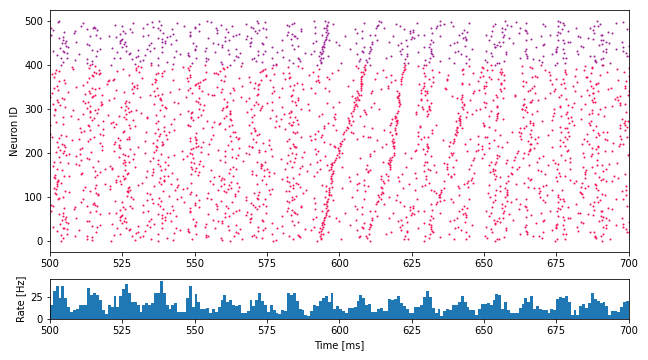
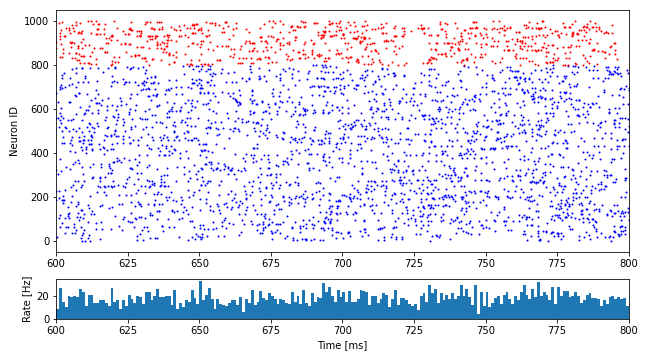
incorporated changes suggested by kris

diff --git a/simulation/new_run.py b/simulation/new_run.py
@@ -31,84 +31,106 @@ nest.print_time = False
 #                   }
 
 params = {
-    'num_neurons': 800,                # number of neurons in network
+    'N':    [800, 200],                 # number of neurons in network
     'rho':  0.2,                        # fraction of inhibitory neurons
-    'eps':  0.2,                        # probability to establish a connections
+    'eps':  0.1,                        # probability to establish a connections
     'g':    5,                          # excitation-inhibition balance
-    'eta':  4.4,                          # relative external rate
+    'eta':  2,                          # relative external rate
     'J':    0.1,                        # postsynaptic amplitude in mV
-    'n_rec_ex':  6000,                   # excitatory neurons to be recorded from
-    'n_rec_in':  2000,                   # inhibitory neurons to be recorded from
+    'n_rec_ex':  800,                   # excitatory neurons to be recorded from
+    'n_rec_in':  200,                   # inhibitory neurons to be recorded from
     'rec_start': 600.,                  # start point for recording spike trains
     'rec_stop':  800.                   # end points for recording spike trains
     }
 
-neuron_params_ex = {
-    #"C_m":     1.0,                     ## capacity of membrane
+neuron_params = {
+    "C_m":     1.0,                     ## capacity of membrane
     "t_ref":   2.0,                     ## duration of refractory period
     "E_L":     0.0,                     ## resting membrane potential
     "V_m":     0.0,                     ## membrane potential
-    "V_th":    30.,                     ## spike threshold
-    "V_reset": 0.0,                     ## Reset potential of membrane
+    "V_th":    20.,                     ## spike threshold
+    "V_reset": 10.,                     ## Reset potential of membrane
     "spike_dependent_threshold": False,
     "after_spike_currents": False,
     "adapting_threshold": False,
-    "tau_syn": [2, 20]
 }
 
-syn_spec_ex_ex={
-    'weight': params['J'],
-    'delay': 1.5, 
-    'receptor_type': 1
-    }
-syn_spec_in_ex={
-    'weight': params['J']*-params['g'],
-    'delay': 1.5, 
-    'receptor_type': 2
-     }
-syn_spec_ex_in={#'synapse_model': 'stdp_synapse',
+syn_spec_ex_ex = {
+    'synapse_model': 'static_synapse',
     'weight': params['J'],
     'delay': 1.5,
     'receptor_type': 1
     }
-syn_spec_in_in={#'synapse_model': 'stdp_synapse',
+syn_spec_in_ex = {
+    'synapse_model': 'static_synapse',
     'weight': params['J']*-params['g'],
-    'delay': 1.5, 
-    'receptor_type': 2
+    'delay': 1.5,
+    'receptor_type': 1
+     }
+syn_spec_ex_in = {
+    'synapse_model': 'static_synapse',
+    'weight': params['J'],
+    'delay': 1.5,
+    'receptor_type': 1
+    }
+syn_spec_in_in = {
+    'synapse_model': 'static_synapse',
+    'weight': params['J']*-params['g'],
+    'delay': 1.5,
+    'receptor_type': 1
     }
 
 
 
-## V_th / (excitatory weight * number of exc. conns * tau_m) * rel. ext rate * 1000 * number of exc. conns
-ext_rate = (neuron_params_ex['V_th']   # the external rate needs to be adapted to provide enough input (Brunel 2000)
-                  / (params['J'] * params['num_neurons'] * params['eps'] * neuron_params_ex['tau_syn'][0]) #neuron_params_ex['tau_syn'])
-                  * params['eta'] * 1000. * params['num_neurons'] * params['eps'])
+## From the old script:
+# ext_rate = (neuron_params['V_th']   # the external rate needs to be adapted to provide enough input (Brunel 2000)
+#             / (params['J'] * params['N'][0] * params['eps'] * neuron_params['tau_syn'][0])
+#             * params['eta'] * 1000. * params['N'][0] * params['eps'])
+ext_rate = 33.5e4
 
 
-nu_th = neuron_params_ex['V_th'] / (params['J'] * params['num_neurons'] * params['eps'] * neuron_params_ex['tau_syn'][0])
-nu_ex = params['eta'] * nu_th
+# nu_th = neuron_params['V_th'] / (params['J'] * params['N'][0] * params['eps'] * neuron_params['tau_syn'][0])
+# nu_ex = params['eta'] * nu_th
+# ratio = nu_ex/nu_th
 
-ratio = nu_ex/nu_th
+network = Network()
+network.addpop('glif_psc', params['N'][0], neuron_params, record_from_pop=True, nrec=800)
+network.addpop('glif_psc', params['N'][1], neuron_params, record_from_pop=True, nrec=200)
 
-network = Network(ext_rate)
-network.addpop('glif_psc', int(params['num_neurons']*(1-params['rho'])),neuron_params_ex, record_from_pop=True, nrec=400)
-network.addpop('glif_psc', int(params['num_neurons']*params['rho']),neuron_params_ex, record_from_pop=True, nrec=100)
+# add stimulation
+network.add_stimulation(source={'type': 'poisson_generator', 'rate': ext_rate}, target=0) # to excitatory population
+network.add_stimulation(source={'type': 'poisson_generator', 'rate': ext_rate}, target=1) # to inhibitory population
 
-# network.addpop('iaf_psc_delta', int(params['num_neurons']*(1-params['rho'])),neuron_params_ex, record_from_pop=True, nrec=200)
-# network.addpop('iaf_psc_delta', int(params['num_neurons']*params['rho']),neuron_params_ex, record_from_pop=True, nrec=50)
-
-
-
-conn_matrix = np.array([[params['eps']*(1-params['rho']), params['eps']],
-                        [params['eps']*(1-params['rho']), 0.0]])
+## In the previous script we connected the excitatory/inhibitory population to all neurons. Since the setup here is different
+## I changed the connection probabilities to reflect this. Previously there were eps*allneurons connections. Now this has to be divided
+## into eps*fraction_exc and eps*fraction_inh so the total doesn't change
+conn_matrix = np.array([[params['eps'], params['eps']],
+                        [params['eps'], params['eps']]])
 syn_matrix = np.array([[syn_spec_ex_ex, syn_spec_in_ex],
-                      [syn_spec_ex_in, syn_spec_in_in]])
+                       [syn_spec_ex_in, syn_spec_in_in]])
 
 
-network.connect_all(network.get_pops(), conn_matrix, syn_matrix)
+network.connect_all(conn_matrix, syn_matrix)
 
-network.create()
 network.simulate(1000)
 test = network.get_data()
-raster(test, 500, 700)
-rate(test,600,800)
+raster(test, params['rec_start'], params['rec_stop'])
+plt.show()
+
+##This one still needs a small rewrite. Currently it takes the average of all spikes over the simulation time, which is only Hz if
+##the simulation time is 1000ms. 
+rate(test, params['rec_start'], params['rec_stop'])
+
+
+# analyze connectivity
+# connections = nest.GetConnections()
+# src_trg = connections.get(['source', 'target', 'weight'])
+#
+# num_sources = np.max(src_trg['source'])
+# num_targets = np.max(src_trg['target'])
+#
+# W = np.zeros((num_targets, num_sources))
+# NZ = np.zeros((num_targets, num_sources))
+# for i in range(len(src_trg['source'])):
+#     W[src_trg['target'][i]-1, src_trg['source'][i]-1] += src_trg['weight'][i]
+#     NZ[src_trg['target'][i]-1, src_trg['source'][i]-1] = 1

diff --git a/simulation/new_functions.py b/simulation/new_functions.py
@@ -8,11 +8,10 @@ import random
 
 ## 
 # Create classes
-class Network():
-    def __init__(self, ext_rate):
+class Network:
+    def __init__(self):
         self.__populations = []
         self.__devices = []
-        self.ext_rate = ext_rate
         self.spike_recorder = nest.Create("spike_recorder")
 
     def addpop(self, neuron_type, num_neurons, neuron_params, record_from_pop=False, nrec=0.):
@@ -27,25 +26,27 @@ class Network():
     def connect(self, popone, poptwo, conn_specs, syn_specs):
         nest.Connect(popone, poptwo, conn_spec=conn_specs, syn_spec=syn_specs)
     
-    def connect_all(self, populations, conn_specs, syn_specs):
+    def connect_all(self, conn_specs, syn_specs):
         ## Connect a vector containing populations with other populations
         ## with given parameters.
         ## Accepts either one synapse model for all connections or a matrix
         ## of synapse models for each individual connection
-        for x in range(len(populations)):
-            for y in range(len(populations)):
-                nest.Connect(populations[x], 
-                             populations[y],
-                             conn_spec = {'rule': 'fixed_indegree', 'indegree': int(conn_specs[y,x] * len(populations[x]))},
-                             syn_spec = syn_specs[y,x])
+        r = list(range(len(self.__populations)))
+        R = itertools.product(r,r)
+        for x,y in R:
+            nest.Connect(self.__populations[x],
+                         self.__populations[y],
+                         conn_spec = {'rule': 'fixed_indegree', 
+                                      'indegree': int(conn_specs[y, x] * len(self.__populations[x]))},
+                         syn_spec = syn_specs[y, x])
+        
+                
 
-    def create(self):
-        self.stimulus = nest.Create("poisson_generator")
-        self.stimulus.rate = self.ext_rate
-        for pop in self.__populations:
-            nest.Connect(self.stimulus, pop,
-                syn_spec={'receptor_type': 1,
-                          'weight': 0.1})
+    def add_stimulation(self, source, target):
+        stimulus = nest.Create(source['type'])
+        stimulus.rate = source['rate']
+        nest.Connect(stimulus, self.__populations[target], conn_spec={'rule': 'all_to_all'},  syn_spec={'receptor_type': 1,
+                                                                                                'weight': 0.1})
     
     def get_pops(self):
         return self.__populations
@@ -125,26 +126,26 @@ def raster(spikes, rec_start, rec_stop, figsize=(9, 5)):
     ax2.set_ylabel('Rate [Hz]')
     ax2.set_xlabel('Time [ms]')
     
-    color_list = []
-    for i in range(len(nrec_lst)):
-      r = random.randint(0,255)/255
-      g = random.randint(0,255)/255
-      b = random.randint(0,255)/255
-      color_list.append([r,g,b])
+    color_list = ['b', 'r']
+    # for i in range(len(nrec_lst)):
+    #   r = random.randint(0,255)/255
+    #   g = random.randint(0,255)/255
+    #   b = random.randint(0,255)/255
+    #   color_list.append([r,g,b])
     
     
-    
+    print(nrec_lst)
     for j in range(len(nrec_lst)): ## for each population
         for i in range(nrec_lst[j]): ## Get the size of the population
-            ax1.plot(spikes_total[i],
-                (i + sum(nrec_lst[:j]))*np.ones(len(spikes_total[i])),
+            ax1.plot(spikes_total[(i+ sum(nrec_lst[:j]))],
+                (i + sum(nrec_lst[:j]))*np.ones(len(spikes_total[i+ sum(nrec_lst[:j])])),
                 linestyle='',
                 marker='o',
                 color=color_list[j],
                 markersize=1)
 
-    spikes_total = list(itertools.chain(*[element for sublist in spikes for element in sublist]))
-    ax2 = ax2.hist(spikes_total,
+    spikes_hist = list(itertools.chain(*[element for sublist in spikes for element in sublist]))
+    ax2 = ax2.hist(spikes_hist,
                    range=(rec_start,rec_stop),
                    bins=int(rec_stop - rec_start))
 
